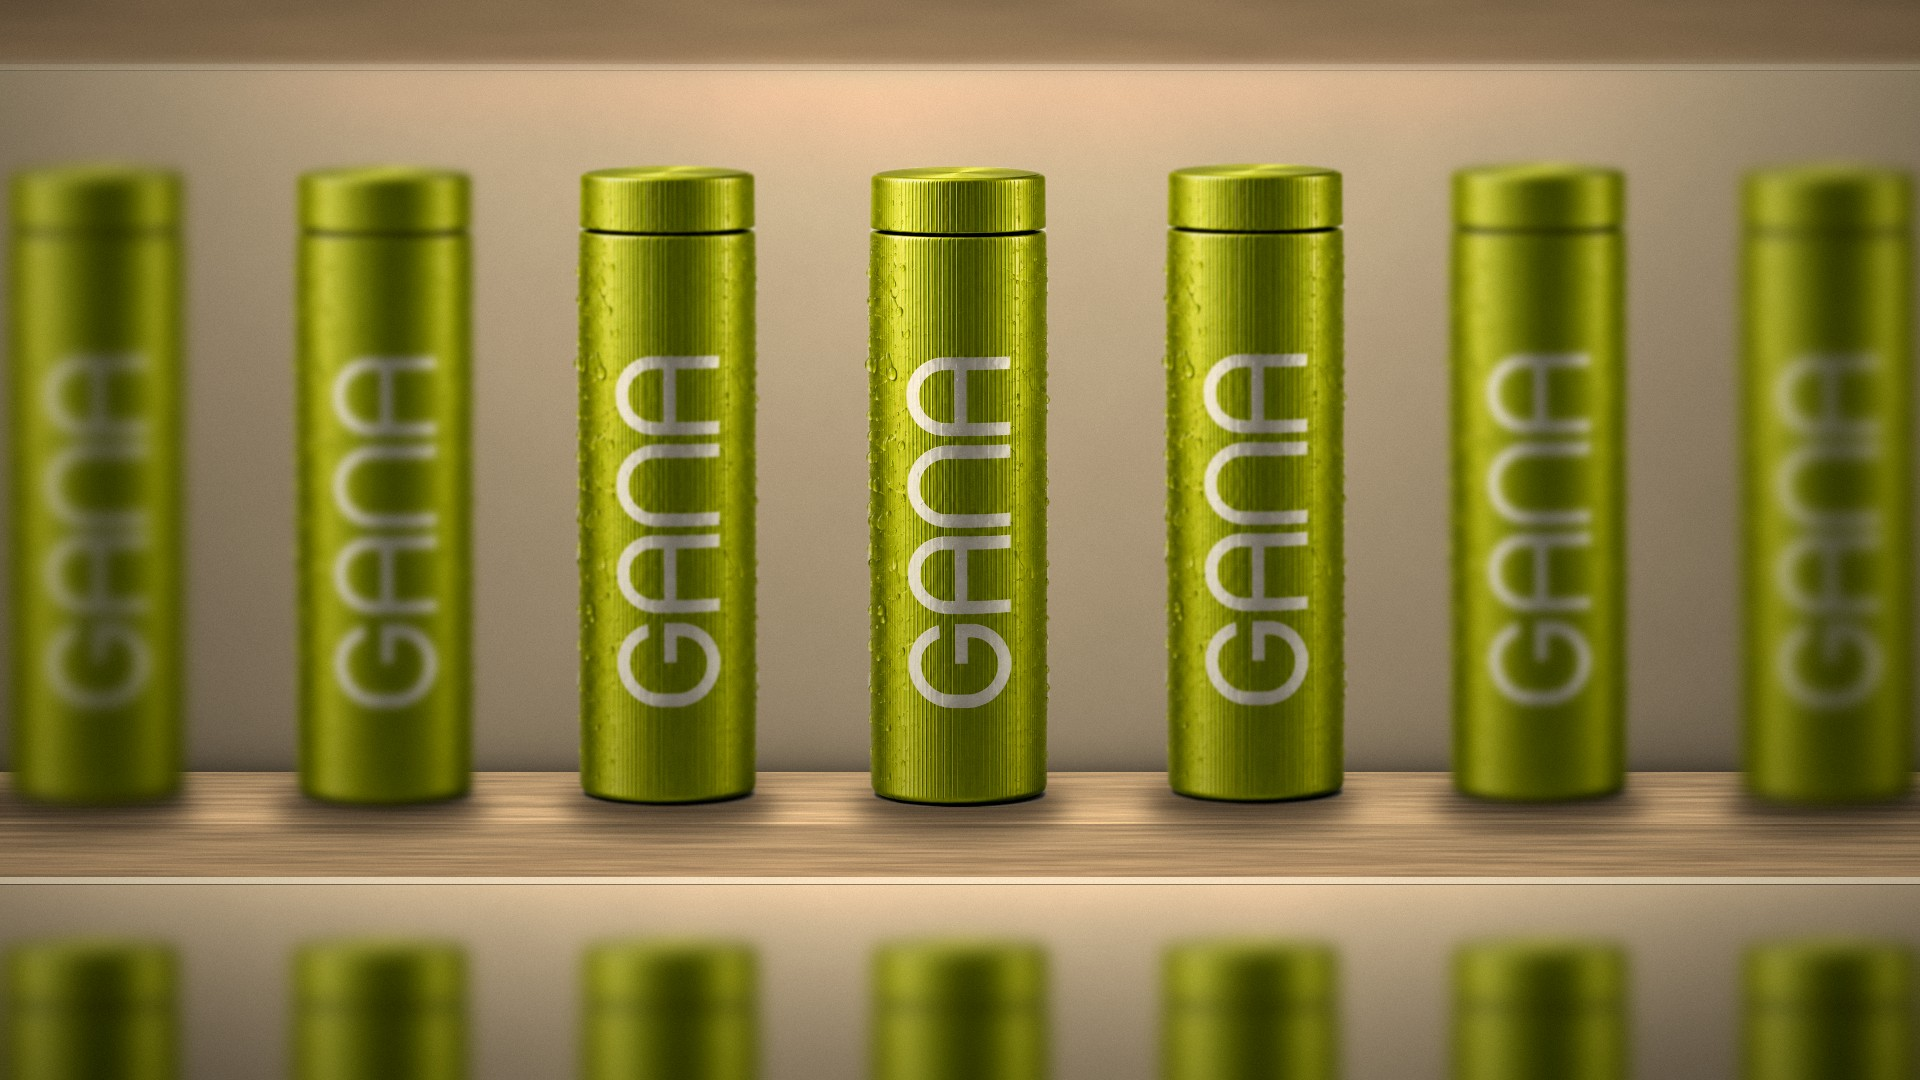
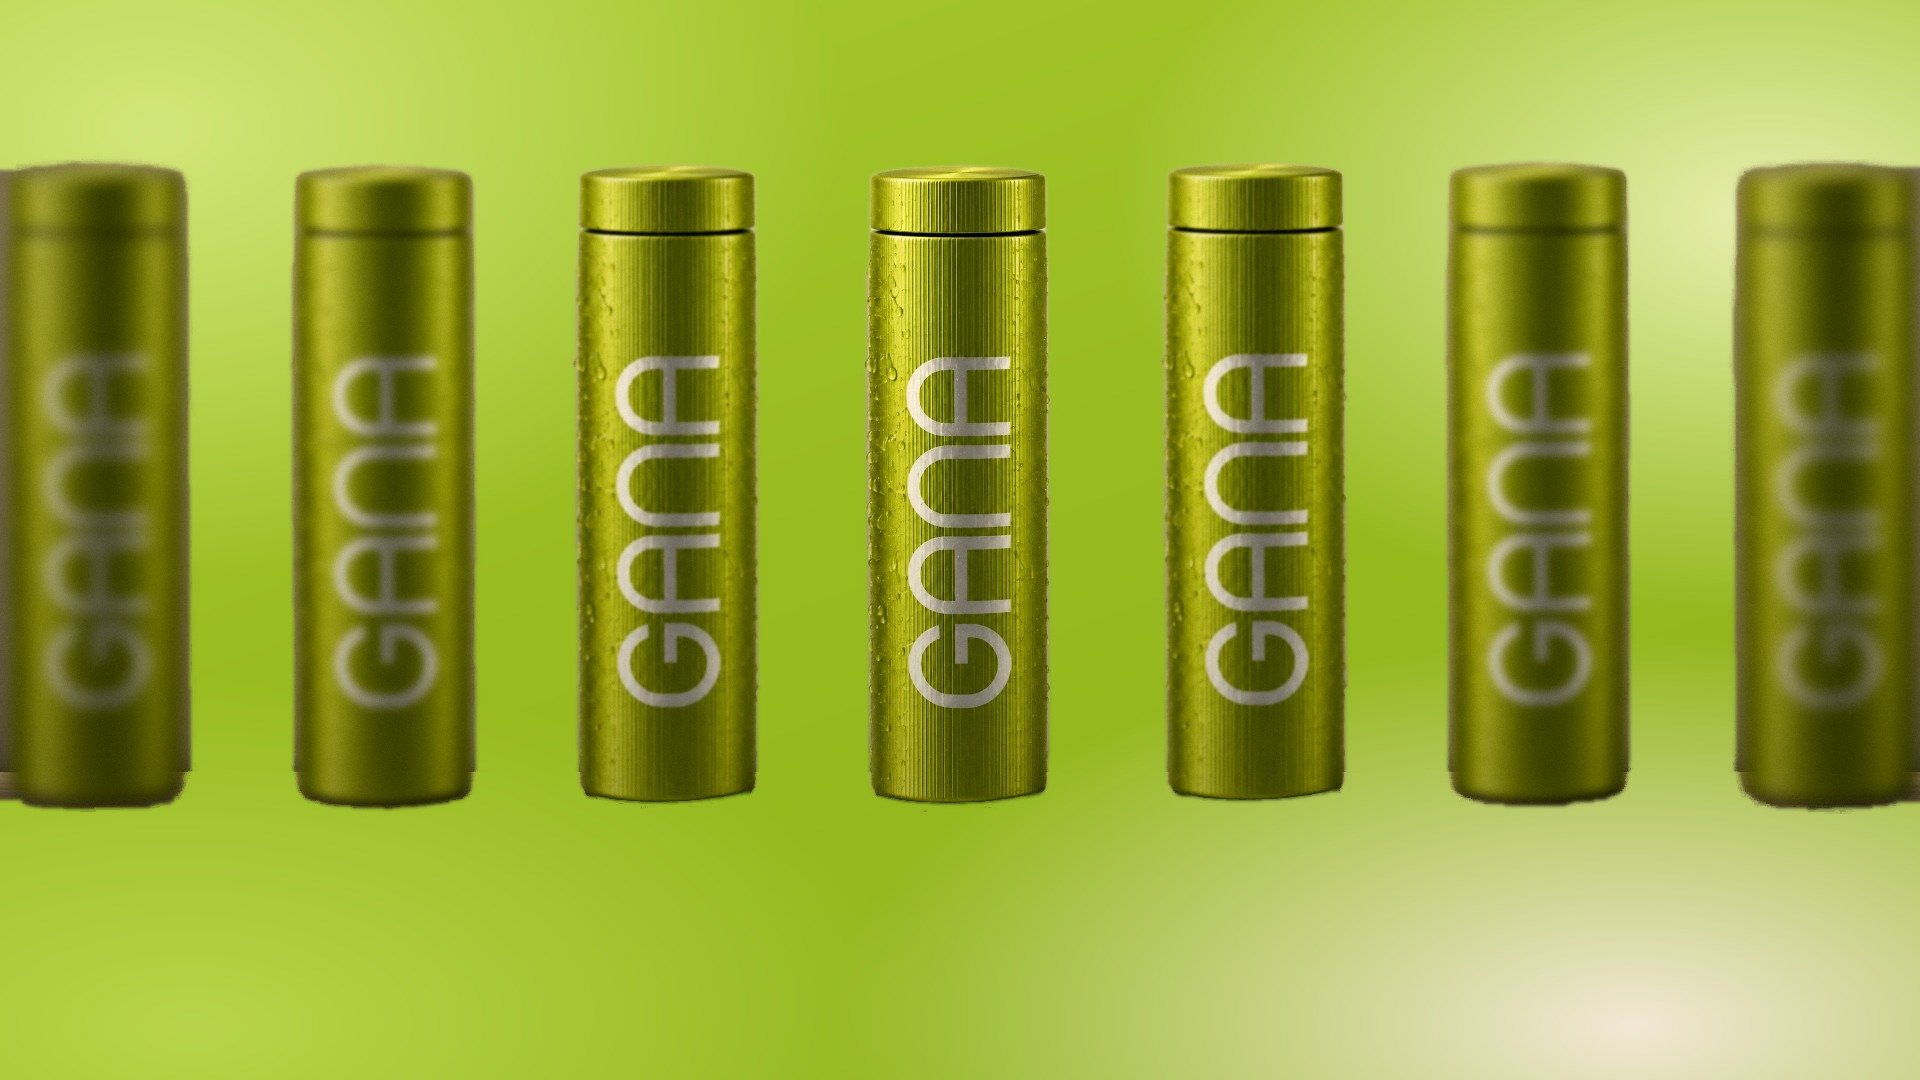
Experience header: replace shelf background with the home page gradient
Claude-Session: https://claude.ai/code/session_012JxJ1wZGhZfBx68imA9sjs

diff --git a/experience.html b/experience.html
@@ -14,7 +14,7 @@
   <link rel="preconnect" href="https://fonts.gstatic.com" crossorigin>
   <link href="https://fonts.googleapis.com/css2?family=Montserrat:wght@300;400;500;700&display=swap" rel="stylesheet">
   <link rel="stylesheet" href="styles.css?v=103">
-  <link rel="stylesheet" href="guide.css?v=104">
+  <link rel="stylesheet" href="guide.css?v=106">
 </head>
 <body class="sub">
 
@@ -27,7 +27,7 @@
 
   <main id="top" class="scenes">
     <section class="scene s-green exp-intro" id="start" data-label="Start">
-      <img class="exp-bg" src="Images/experience-header-shelf.jpg" alt="" width="1920" height="1080">
+      <img class="exp-bg" src="Images/experience-header-shelf.jpg?v=2" alt="" width="1920" height="1080">
       <h1 class="sr-only">Experience: bottle, building, touch, sound, scent.</h1>
       <i class="hdr-rule hr1"></i><i class="hdr-rule hr2"></i>
       <p class="hdr-cap hc-l">Bottle, building,<br>touch, sound, scent.</p>

diff --git a/guide.css b/guide.css
@@ -685,3 +685,5 @@ body.sub .cascade-only { min-height: 100svh; }
 @media (max-width: 780px) { .hdr-cap { font-size: .8rem; } .hdr-cap.hc-l { bottom: calc(12% + 6px); } .hdr-rule.hr1 { top: 40%; } .hdr-rule.hr2 { display: none; } .hdr-cap.hc-m { top: calc(40% - 3.6em); } }
 .exp-intro .hdr-cap.hc-m { top: auto; left: auto; bottom: calc(16% - 4px); right: clamp(16px, 4vw, 70px); text-align: right; }
 @media (max-width: 780px) { .exp-intro .hdr-cap.hc-m { bottom: calc(12% + 6px); } .exp-intro .hdr-cap.hc-l { bottom: calc(12% + 50px); } .exp-intro .hdr-rule.hr1 { top: 40%; } }
+.exp-intro::after { background: none !important; }
+.exp-intro .hdr-cap { text-shadow: 0 1px 14px rgba(27,27,27,.45), 0 0 2px rgba(27,27,27,.25); }

diff --git a/about.html b/about.html
@@ -14,7 +14,7 @@
   <link rel="preconnect" href="https://fonts.gstatic.com" crossorigin>
   <link href="https://fonts.googleapis.com/css2?family=Montserrat:wght@300;400;500;700&display=swap" rel="stylesheet">
   <link rel="stylesheet" href="styles.css?v=103">
-  <link rel="stylesheet" href="guide.css?v=104">
+  <link rel="stylesheet" href="guide.css?v=106">
 </head>
 <body class="sub">
 

diff --git a/brand-guidelines.html b/brand-guidelines.html
@@ -14,7 +14,7 @@
   <link rel="preconnect" href="https://fonts.gstatic.com" crossorigin>
   <link href="https://fonts.googleapis.com/css2?family=Montserrat:wght@300;400;500;700&display=swap" rel="stylesheet">
   <link rel="stylesheet" href="styles.css?v=103">
-  <link rel="stylesheet" href="guide.css?v=104">
+  <link rel="stylesheet" href="guide.css?v=106">
 </head>
 <body class="sub">
 
